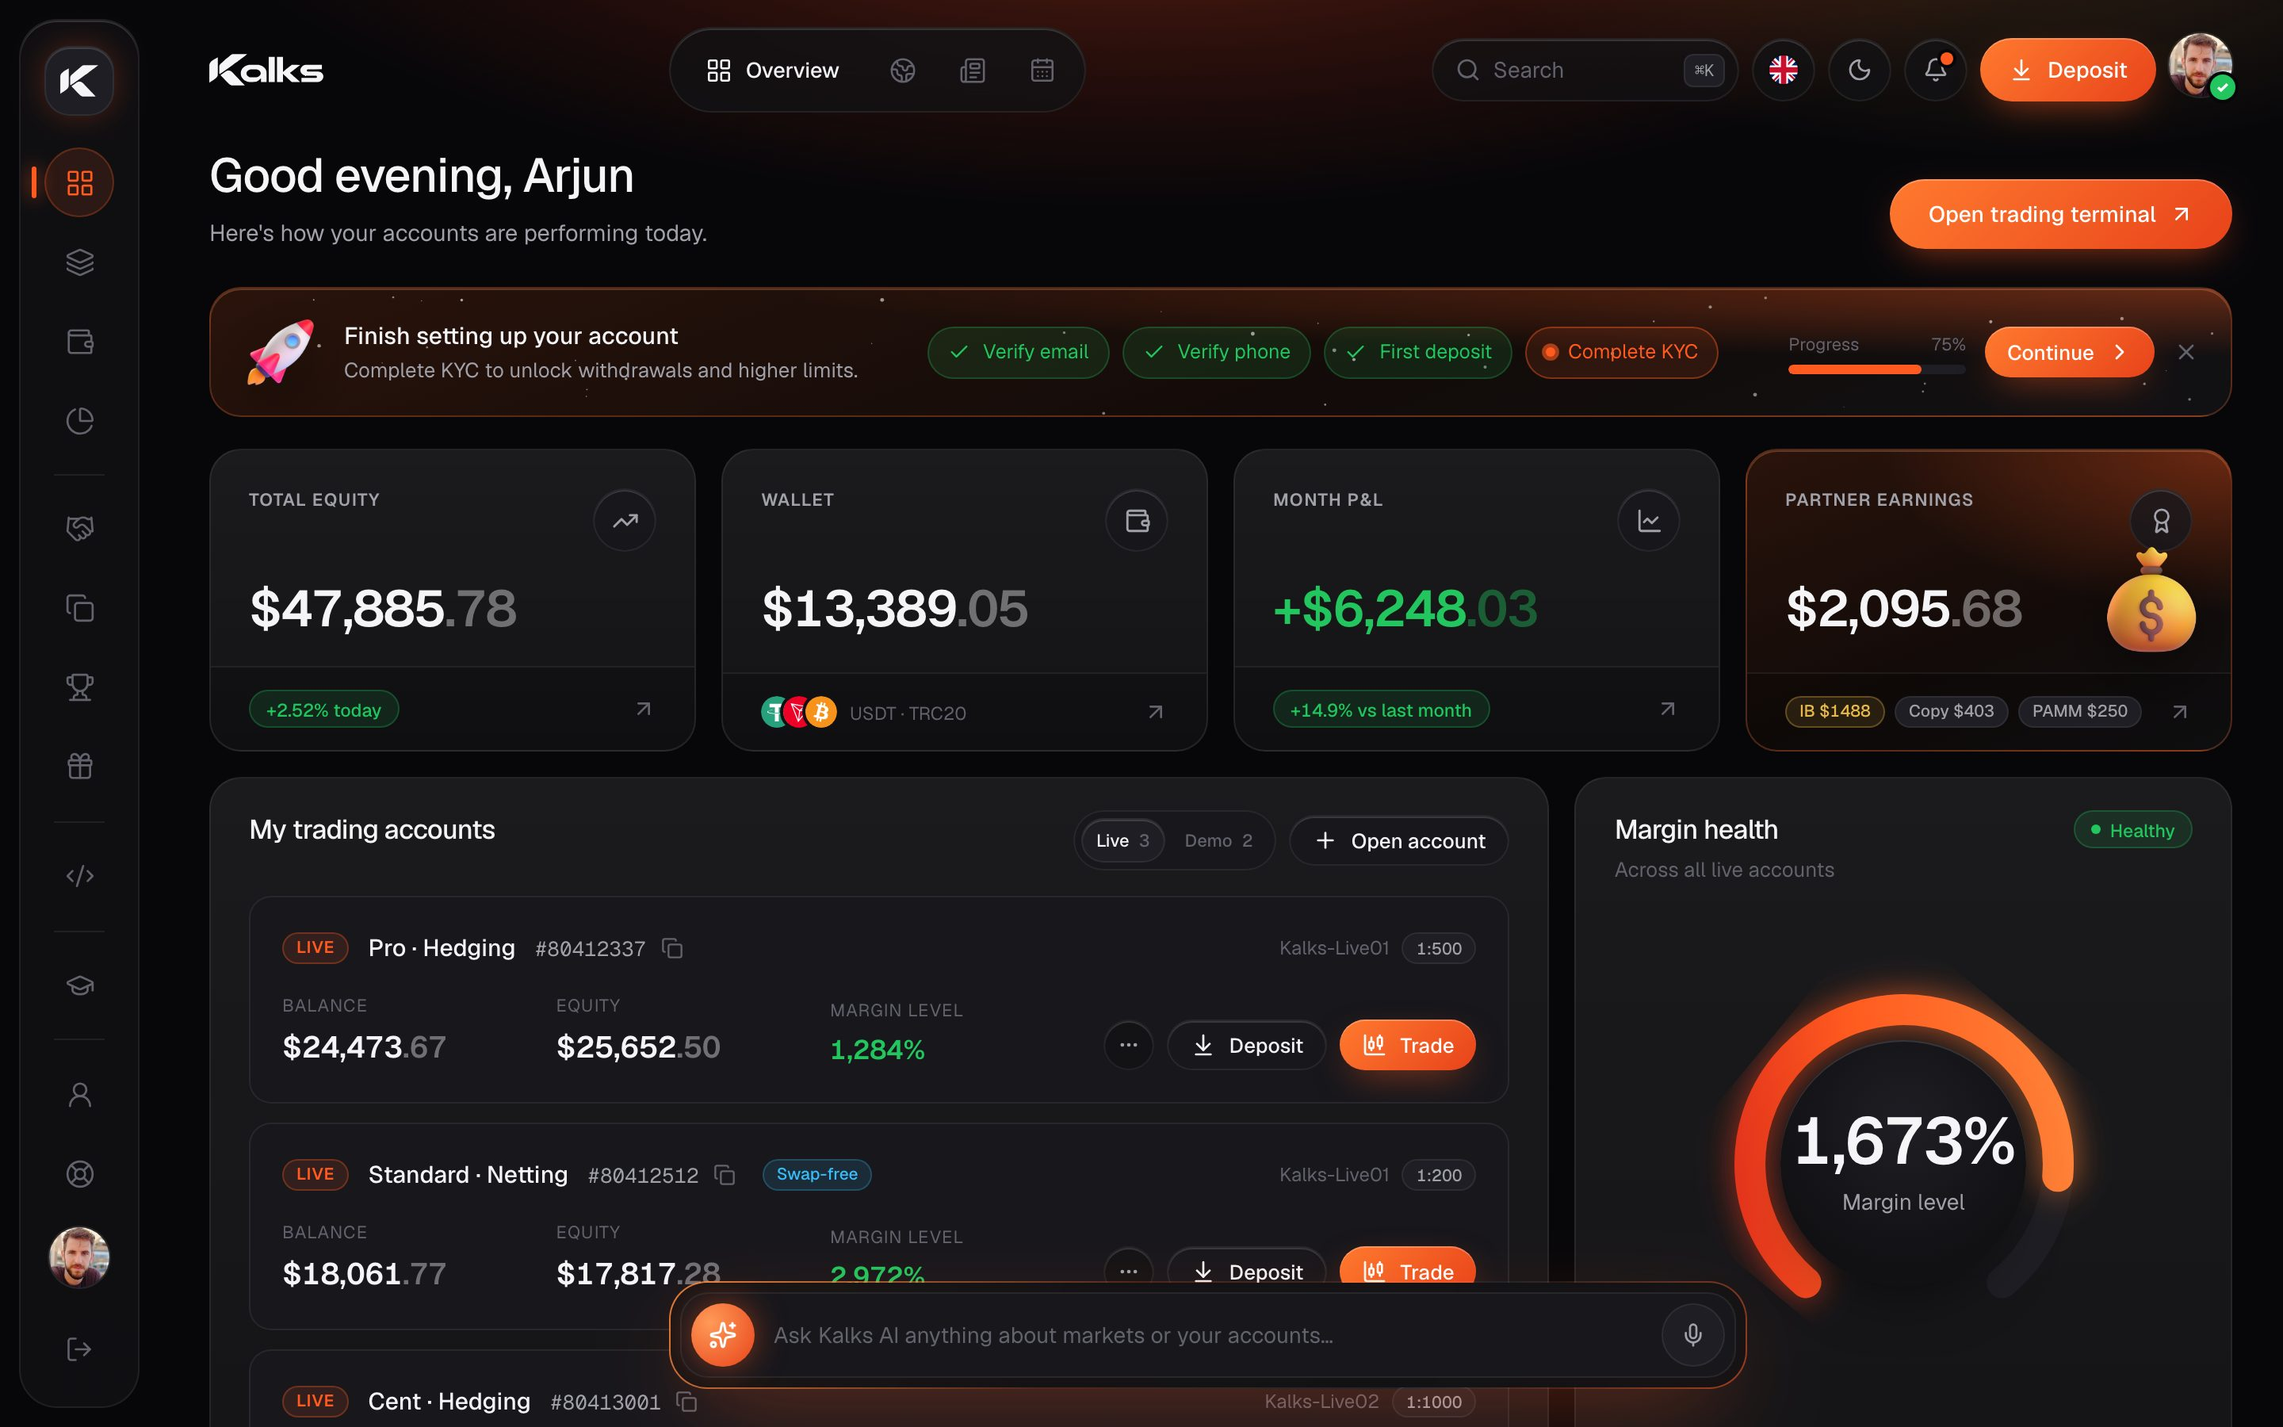
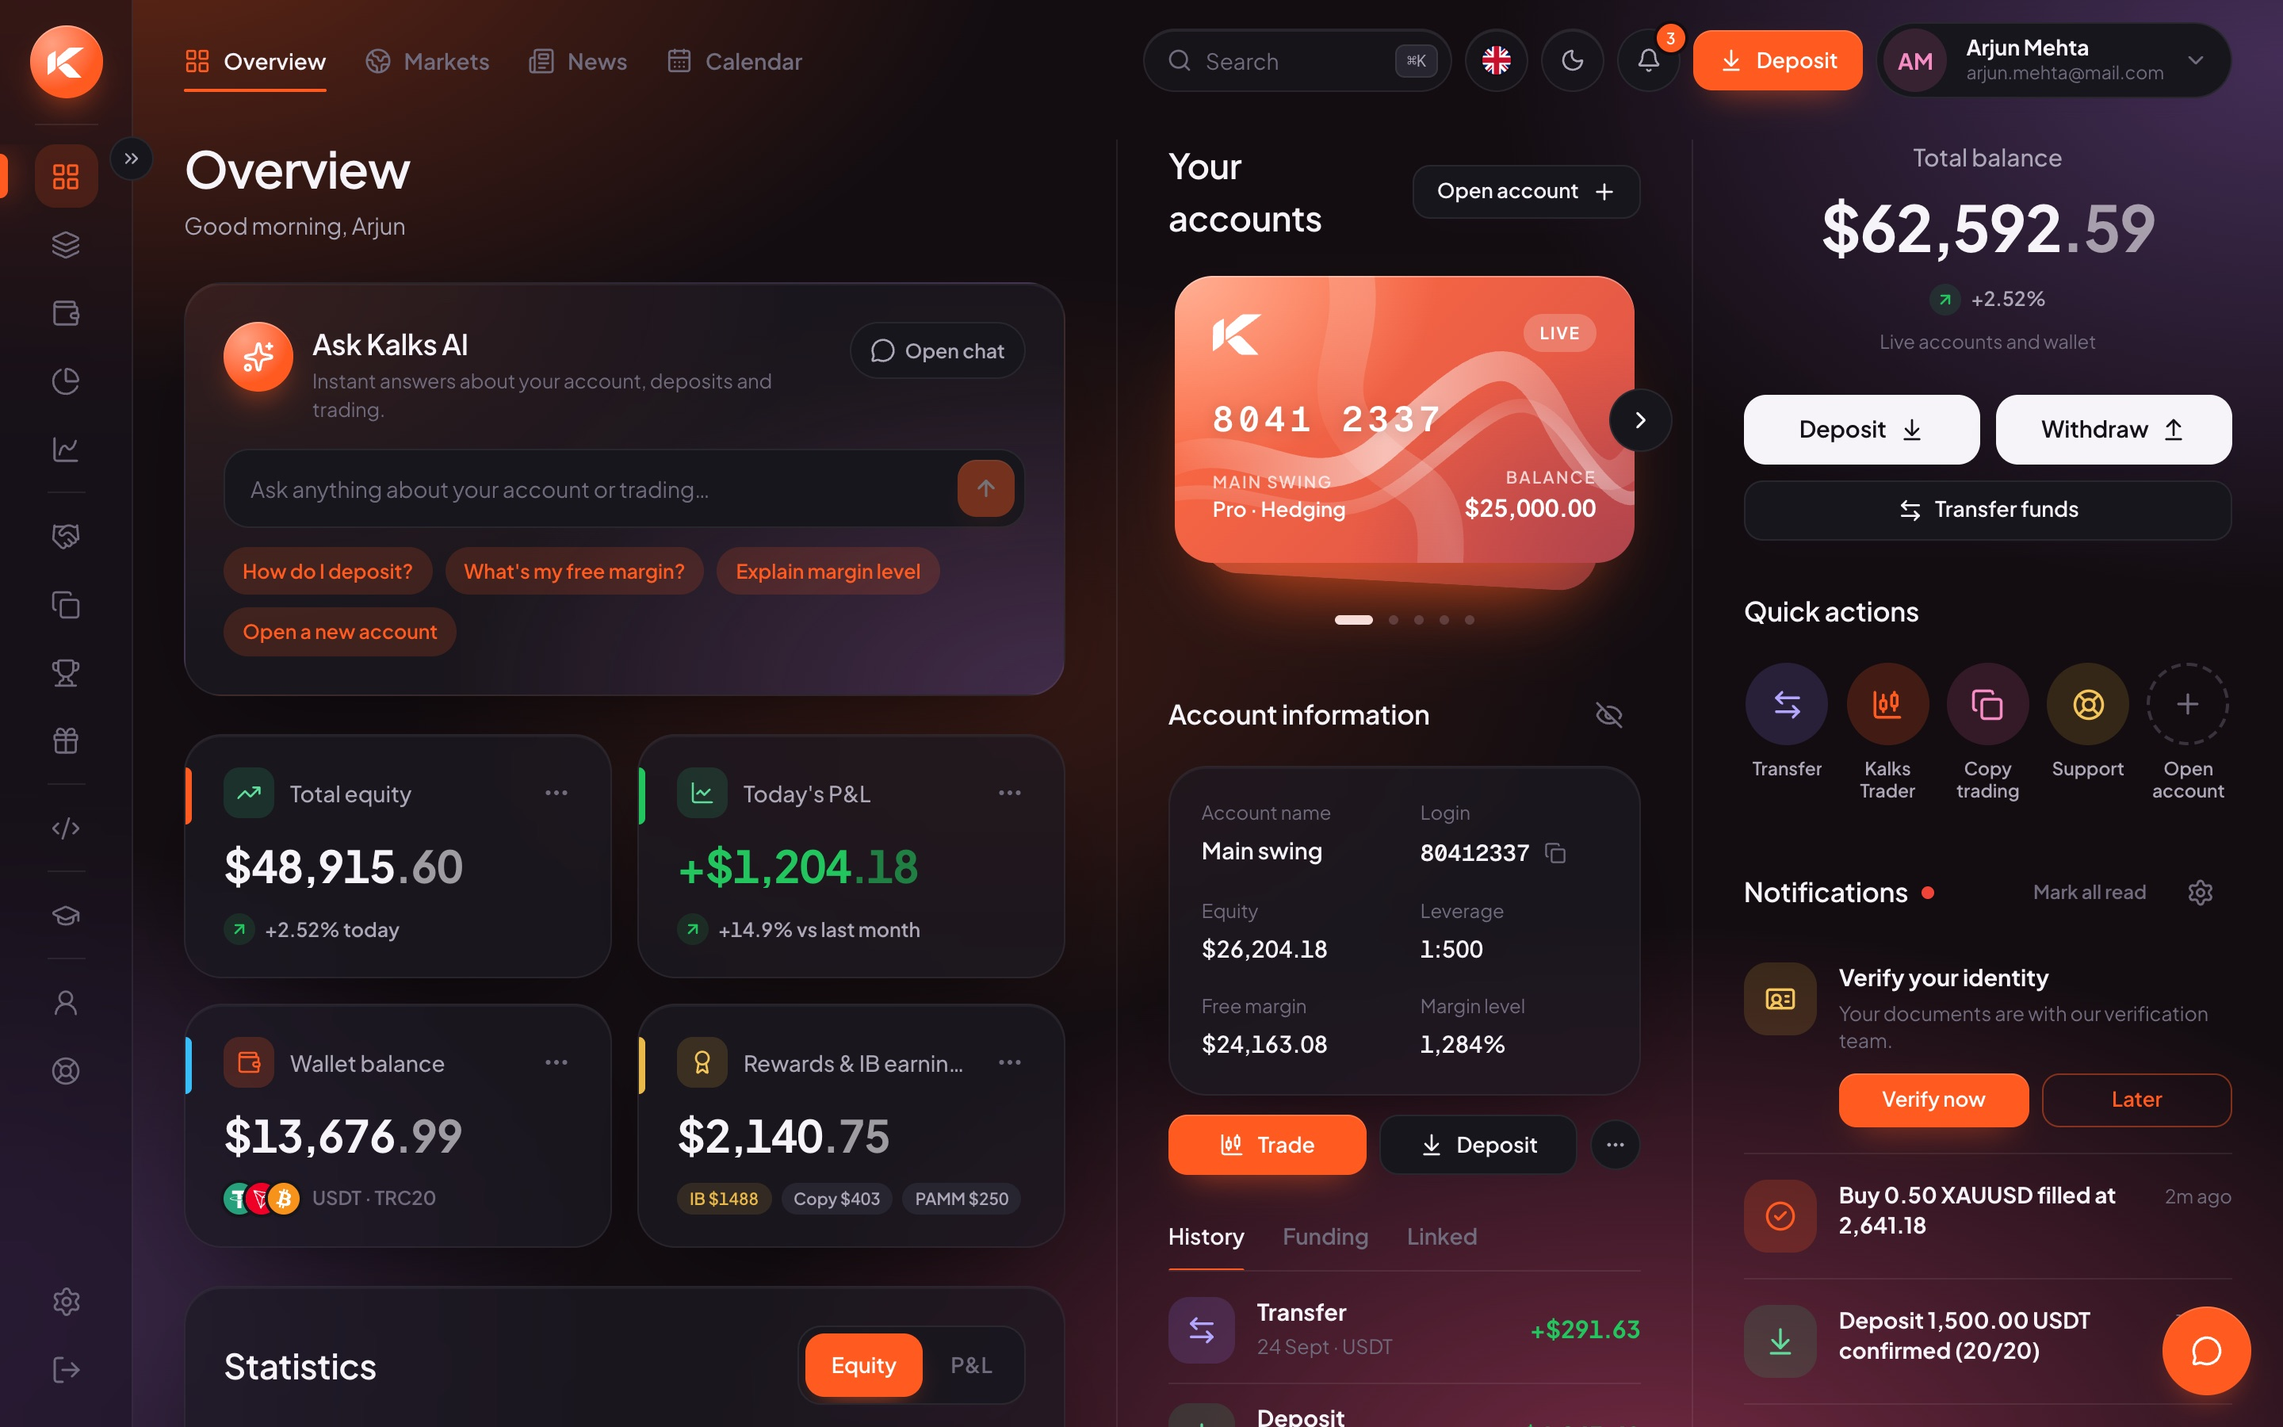
Client Area sign-in: the new dashboard in the login preview (dark and light), and "Try the demo" on the sign-in and sign-up pages, opening the full sample-data demo without an account (Kalks only, hidden for white-label brokers)

diff --git a/apps/crm/components/auth.tsx b/apps/crm/components/auth.tsx
@@ -2,7 +2,7 @@
 
 import * as React from "react";
 import { ArrowRight } from "lucide-react";
-import { Button, cn } from "@/components/kit";
+import { Button, cn, useBrand } from "@/components/kit";
 import { useT, Trans } from "@kalks/i18n/react";
 
 /** "Sign in with Google" is shown only once Google OAuth is configured (NEXT_PUBLIC_GOOGLE_LOGIN=1). */
@@ -199,6 +199,27 @@ export function ResendLink({ seconds, onResend }: { seconds: number; onResend: (
 }
 
 /** Demo builds only: skip sign-in and browse the Client Area as the sample client. */
+/** Public demo of the Client Area (sample data, no sign-up). Kalks' own showcase, so white-label brokers don't get it. */
+const DEMO_URL = process.env.NEXT_PUBLIC_DEMO_URL || "https://demo.kalkstrade.com";
+
+/** On the live sign-in and sign-up pages: try the full platform in the demo first, without an account. */
+export function TryDemo() {
+  const t = useT();
+  const brand = useBrand();
+  if (brand) return null;
+  return (
+    <div className="mt-6 rounded-[18px] border border-ember/30 bg-ember-soft px-5 py-4">
+      <div className="text-[14px] font-medium text-fg">{t("auth.demo.tryTitle")}</div>
+      <p className="mt-1 text-[13px] text-fg-2">{t("auth.demo.tryBody")}</p>
+      <a href={DEMO_URL} className="mt-3 block">
+        <Button type="button" variant="outline" size="lg" className="w-full">
+          {t("auth.demo.tryCta")} <ArrowRight className="rtl:-scale-x-100" />
+        </Button>
+      </a>
+    </div>
+  );
+}
+
 export function DemoEntry() {
   const t = useT();
   return (

diff --git a/packages/i18n/src/catalog/ta/auth.ts b/packages/i18n/src/catalog/ta/auth.ts
@@ -53,6 +53,9 @@ const auth: NsMessages<"auth"> = {
   "demo.title": "இது Kalks டெமோ",
   "demo.body": "கணக்கு தேவையில்லை. ஒவ்வொரு திரையும் மாதிரித் தரவில் இயங்குகிறது.",
   "demo.enter": "டெமோவில் நுழை",
+  "demo.tryTitle": "புதியவரா? முதலில் டெமோவை முயற்சிக்கவும்",
+  "demo.tryBody": "மாதிரி தரவுகளுடன் முழு டெமோ கணக்கை ஆராயுங்கள்: டாஷ்போர்டு, வாலட், காப்பி டிரேடிங், Kalks Trader மற்றும் ஆப்ஷன்கள். பதிவு தேவையில்லை.",
+  "demo.tryCta": "டெமோவை முயற்சிக்கவும்",
 
   // Auth layout brand panel
   "brand.headline": "நிறுவன அளவிலான துல்லியத்துடன் உலகச் சந்தைகளில் டிரேட் செய்யுங்கள்.",

diff --git a/apps/crm/app/(auth)/login/page.tsx b/apps/crm/app/(auth)/login/page.tsx
@@ -8,7 +8,7 @@ import { toast } from "sonner";
 import { Button, Field, Input } from "@/components/kit";
 import { IS_DEMO } from "@kalks/mock/mode";
 import { useT, Trans } from "@kalks/i18n/react";
-import { DemoEntry, DevCodeHint, FormError, GOOGLE_LOGIN, GoogleButton, useGoogleError, OrDivider, OtpInput, ResendLink } from "@/components/auth";
+import { DemoEntry, DevCodeHint, FormError, GOOGLE_LOGIN, GoogleButton, useGoogleError, OrDivider, OtpInput, ResendLink, TryDemo } from "@/components/auth";
 import { authPost, nextPath, type ApiError, type OtpChallenge } from "@/lib/auth-client";
 
 export default function LoginPage() {
@@ -103,6 +103,7 @@ export default function LoginPage() {
           <p className="mt-6 text-center text-[13.5px] text-fg-3">
             <Trans k="auth.login.newToKalks" tags={{ link: (c) => <Link href="/register" className="font-medium text-fg hover:text-ember">{c}</Link> }} />
           </p>
+          {!IS_DEMO && <TryDemo />}
         </motion.div>
       ) : (
         <motion.div key="otp" initial={{ opacity: 0, x: 10 }} animate={{ opacity: 1, x: 0 }} exit={{ opacity: 0, x: -10 }}>

diff --git a/apps/crm/app/(auth)/register/page.tsx b/apps/crm/app/(auth)/register/page.tsx
@@ -8,7 +8,7 @@ import { toast } from "sonner";
 import { Button, Field, Input, Stepper, Flag, Icon3D, Illustration } from "@/components/kit";
 import { IS_DEMO } from "@kalks/mock/mode";
 import { useT, Trans } from "@kalks/i18n/react";
-import { DemoEntry, DevCodeHint, FormError, GOOGLE_LOGIN, GoogleButton, useGoogleError, OrDivider, OtpInput, PasswordStrength, ResendLink } from "@/components/auth";
+import { DemoEntry, DevCodeHint, FormError, GOOGLE_LOGIN, GoogleButton, useGoogleError, OrDivider, OtpInput, PasswordStrength, ResendLink, TryDemo } from "@/components/auth";
 import { authPost, type ApiError, type OtpChallenge } from "@/lib/auth-client";
 import { COUNTRIES, maxDob } from "@/lib/countries";
 
@@ -176,6 +176,7 @@ export default function RegisterPage() {
             <p className="mt-5 text-center text-[13.5px] text-fg-3">
               <Trans k="auth.register.haveAccount" tags={{ link: (c) => <Link href="/login" className="font-medium text-fg hover:text-ember">{c}</Link> }} />
             </p>
+            {!IS_DEMO && <TryDemo />}
           </motion.div>
         )}
         {step === 1 && (

diff --git a/packages/i18n/src/catalog/bn/auth.ts b/packages/i18n/src/catalog/bn/auth.ts
@@ -53,6 +53,9 @@ const auth: NsMessages<"auth"> = {
   "demo.title": "এটি Kalks ডেমো",
   "demo.body": "কোনো অ্যাকাউন্টের প্রয়োজন নেই। প্রতিটি স্ক্রিন নমুনা ডেটায় চলে।",
   "demo.enter": "ডেমোতে প্রবেশ করুন",
+  "demo.tryTitle": "নতুন? আগে ডেমো চেষ্টা করুন",
+  "demo.tryBody": "নমুনা ডেটা সহ একটি সম্পূর্ণ ডেমো অ্যাকাউন্ট দেখুন: ড্যাশবোর্ড, ওয়ালেট, কপি ট্রেডিং, Kalks Trader এবং অপশন। সাইন আপ লাগবে না।",
+  "demo.tryCta": "ডেমো চেষ্টা করুন",
 
   // Auth layout brand panel
   "brand.headline": "প্রাতিষ্ঠানিক নির্ভুলতায় বৈশ্বিক মার্কেটে ট্রেড করুন।",

diff --git a/packages/i18n/src/catalog/hi/auth.ts b/packages/i18n/src/catalog/hi/auth.ts
@@ -53,6 +53,9 @@ const auth: NsMessages<"auth"> = {
   "demo.title": "यह Kalks का डेमो है",
   "demo.body": "किसी अकाउंट की ज़रूरत नहीं। हर स्क्रीन सैंपल डेटा पर चलती है।",
   "demo.enter": "डेमो में जाएँ",
+  "demo.tryTitle": "नए हैं? पहले डेमो आज़माएँ",
+  "demo.tryBody": "सैंपल डेटा के साथ पूरा डेमो खाता देखें: डैशबोर्ड, वॉलेट, कॉपी ट्रेडिंग, Kalks Trader और ऑप्शंस। साइन-अप की ज़रूरत नहीं।",
+  "demo.tryCta": "डेमो आज़माएँ",
 
   // Auth layout brand panel
   "brand.headline": "संस्थागत सटीकता के साथ ग्लोबल मार्केट में ट्रेड करें।",

diff --git a/packages/i18n/src/catalog/th/auth.ts b/packages/i18n/src/catalog/th/auth.ts
@@ -53,6 +53,9 @@ const auth: NsMessages<"auth"> = {
   "demo.title": "นี่คือเดโมของ Kalks",
   "demo.body": "ไม่ต้องมีบัญชี ทุกหน้าจอใช้ข้อมูลตัวอย่าง",
   "demo.enter": "เข้าสู่เดโม",
+  "demo.tryTitle": "มาใหม่ใช่ไหม? ลองเดโมก่อน",
+  "demo.tryBody": "สำรวจบัญชีเดโมเต็มรูปแบบด้วยข้อมูลตัวอย่าง: แดชบอร์ด กระเป๋าเงิน Copy Trading, Kalks Trader และออปชัน ไม่ต้องสมัคร",
+  "demo.tryCta": "ลองเดโม",
 
   // Auth layout brand panel
   "brand.headline": "เทรดตลาดทั่วโลกด้วยความแม่นยำระดับสถาบัน",

diff --git a/packages/i18n/src/catalog/fa/auth.ts b/packages/i18n/src/catalog/fa/auth.ts
@@ -53,6 +53,9 @@ const auth: NsMessages<"auth"> = {
   "demo.title": "این نسخه دموی Kalks است",
   "demo.body": "نیازی به حساب نیست. همه صفحات با دادههای نمونه کار میکنند.",
   "demo.enter": "ورود به دمو",
+  "demo.tryTitle": "تازهوارد هستید؟ اول نسخهٔ نمایشی را امتحان کنید",
+  "demo.tryBody": "یک حساب نمایشی کامل با دادههای نمونه را ببینید: داشبورد، کیف پول، کپیتریدینگ، Kalks Trader و آپشنها. نیازی به ثبتنام نیست.",
+  "demo.tryCta": "امتحان نسخهٔ نمایشی",
 
   // Auth layout brand panel
   "brand.headline": "در بازارهای جهانی با دقت نهادی معامله کنید.",

diff --git a/packages/i18n/src/catalog/ru/auth.ts b/packages/i18n/src/catalog/ru/auth.ts
@@ -53,6 +53,9 @@ const auth: NsMessages<"auth"> = {
   "demo.title": "Это демоверсия Kalks",
   "demo.body": "Аккаунт не нужен. Все экраны работают на тестовых данных.",
   "demo.enter": "Открыть демо",
+  "demo.tryTitle": "Впервые здесь? Сначала попробуйте демо",
+  "demo.tryBody": "Изучите полноценный демо-счёт с примерными данными: панель, кошелёк, копитрейдинг, Kalks Trader и опционы. Без регистрации.",
+  "demo.tryCta": "Попробовать демо",
 
   // Auth layout brand panel
   "brand.headline": "Торгуйте на мировых рынках с институциональной точностью.",

diff --git a/packages/i18n/src/catalog/ar/auth.ts b/packages/i18n/src/catalog/ar/auth.ts
@@ -53,6 +53,9 @@ const auth: NsMessages<"auth"> = {
   "demo.title": "هذه هي النسخة التجريبية من Kalks",
   "demo.body": "لا حاجة إلى حساب. جميع الشاشات تعمل ببيانات نموذجية.",
   "demo.enter": "دخول النسخة التجريبية",
+  "demo.tryTitle": "جديد هنا؟ جرّب العرض التجريبي أولاً",
+  "demo.tryBody": "استكشف حسابًا تجريبيًا كاملًا ببيانات نموذجية: لوحة التحكم والمحفظة ونسخ التداول وKalks Trader والخيارات. لا حاجة للتسجيل.",
+  "demo.tryCta": "جرّب العرض التجريبي",
 
   // Auth layout brand panel
   "brand.headline": "تداول في الأسواق العالمية بدقة مؤسسية.",

diff --git a/packages/i18n/src/catalog/ur/auth.ts b/packages/i18n/src/catalog/ur/auth.ts
@@ -53,6 +53,9 @@ const auth: NsMessages<"auth"> = {
   "demo.title": "یہ Kalks ڈیمو ہے",
   "demo.body": "کسی اکاؤنٹ کی ضرورت نہیں۔ ہر اسکرین نمونہ ڈیٹا پر چلتی ہے۔",
   "demo.enter": "ڈیمو میں جائیں",
+  "demo.tryTitle": "نئے ہیں؟ پہلے ڈیمو آزمائیں",
+  "demo.tryBody": "نمونہ ڈیٹا کے ساتھ مکمل ڈیمو اکاؤنٹ دیکھیں: ڈیش بورڈ، والٹ، کاپی ٹریڈنگ، Kalks Trader اور آپشنز۔ سائن اپ کی ضرورت نہیں۔",
+  "demo.tryCta": "ڈیمو آزمائیں",
 
   // Auth layout brand panel
   "brand.headline": "عالمی مارکیٹس میں ادارہ جاتی درستگی کے ساتھ ٹریڈ کریں۔",

diff --git a/packages/i18n/src/catalog/ja/auth.ts b/packages/i18n/src/catalog/ja/auth.ts
@@ -53,6 +53,9 @@ const auth: NsMessages<"auth"> = {
   "demo.title": "Kalksデモ版です",
   "demo.body": "アカウントは不要です。すべての画面がサンプルデータで動作します。",
   "demo.enter": "デモを開く",
+  "demo.tryTitle": "はじめてですか？まずはデモをお試しください",
+  "demo.tryBody": "サンプルデータで完全なデモ口座をお試しください：ダッシュボード、ウォレット、コピートレード、Kalks Trader、オプション。登録は不要です。",
+  "demo.tryCta": "デモを試す",
 
   // Auth layout brand panel
   "brand.headline": "機関投資家レベルの精度で世界の市場を取引。",
